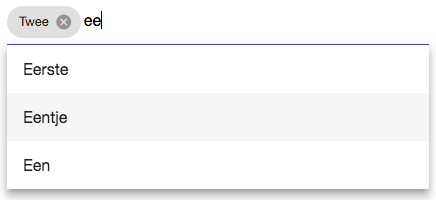
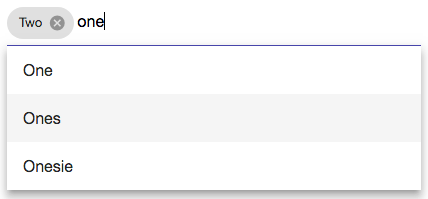
adds more information on how to use and changes screenshot to english text

diff --git a/apps/demo/src/app/app.component.ts b/apps/demo/src/app/app.component.ts
@@ -7,7 +7,7 @@ import { Component, OnInit } from '@angular/core';
 })
 export class AppComponent implements OnInit {
 
-  public options: string[] = ['Eerste', 'Een', 'Eentje', 'Twee', 'Drie', 'Vier'];
+  public options: string[] = ['One', 'Ones', 'Onesie', 'Two', 'Three', 'Four'];
   chips = ['Dinges'];
 
   constructor() {

diff --git a/README.md b/README.md
@@ -1,6 +1,6 @@
 # Angular Material 2 Extensions
 
-A component library of custom extensions to Angular Material 2.
+A component library of custom extensions to [Angular Material 2](https://material.angular.io/).
 
 [![Build Status](https://api.travis-ci.org/sandervalstar/material2-extensions.png?branch=master)](https://travis-ci.org/sandervalstar/material2-extensions)
 
@@ -10,6 +10,19 @@ A component library of custom extensions to Angular Material 2.
 * [Chip-input with auto-complete](#chip-input)
 
 ## How to use
+**Important:** First make sure you have [Angular Material 2](https://material.angular.io/) working, by following the steps below.  
+
+You'll need to choose a CSS theme from 
+`node_modules/@angular/material/prebuilt-themes` 
+and make it available to your application. If you for example placed it in your assets directory can then link to it like this in your `index.html`:
+```html
+<link href="assets/indigo-pink.css" rel="stylesheet">
+```
+Additionally you'll have to import the Material Design icons. You can use the version hosted by Google by adding the following line to your `index.html`:
+```html
+<link href="https://fonts.googleapis.com/icon?family=Material+Icons" rel="stylesheet">
+```
+
 ### Chip-input
 ![](https://raw.githubusercontent.com/sandervalstar/material2-extensions/master/images/chip-input.png "Chip Input")
 ```html
